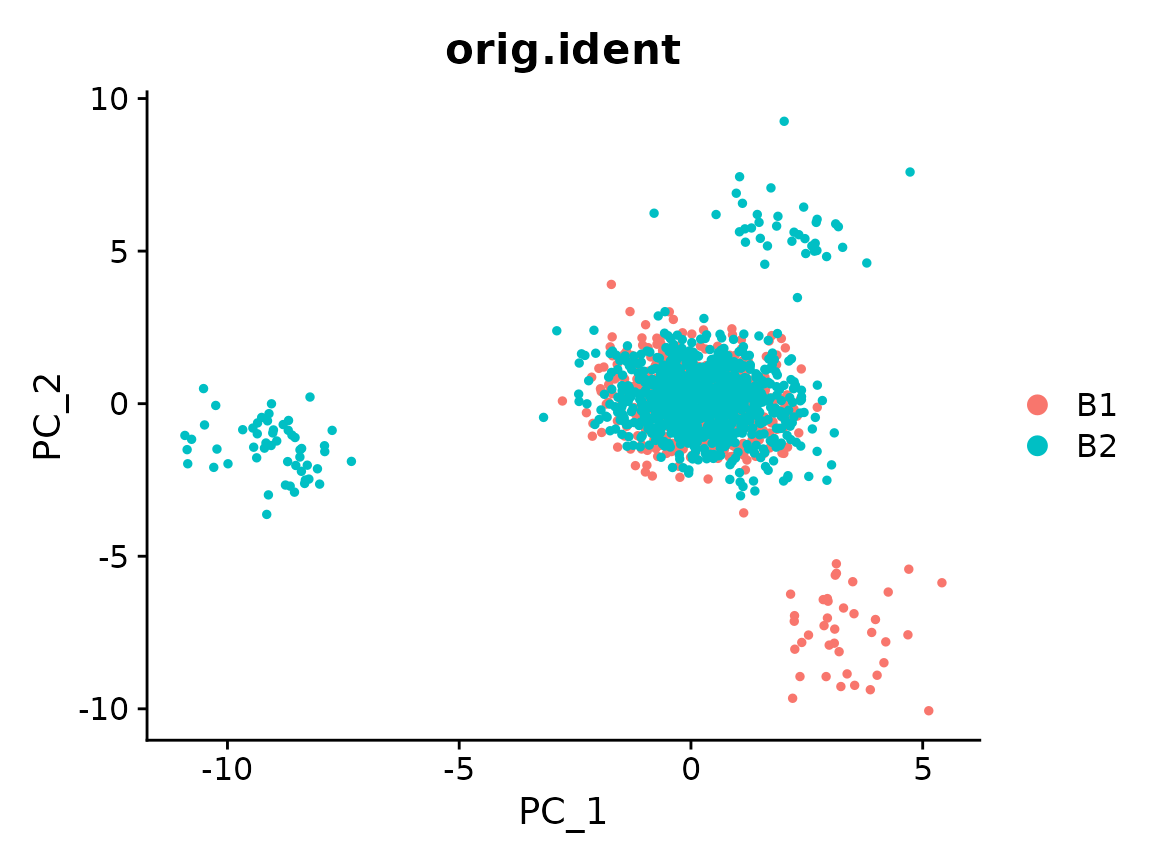
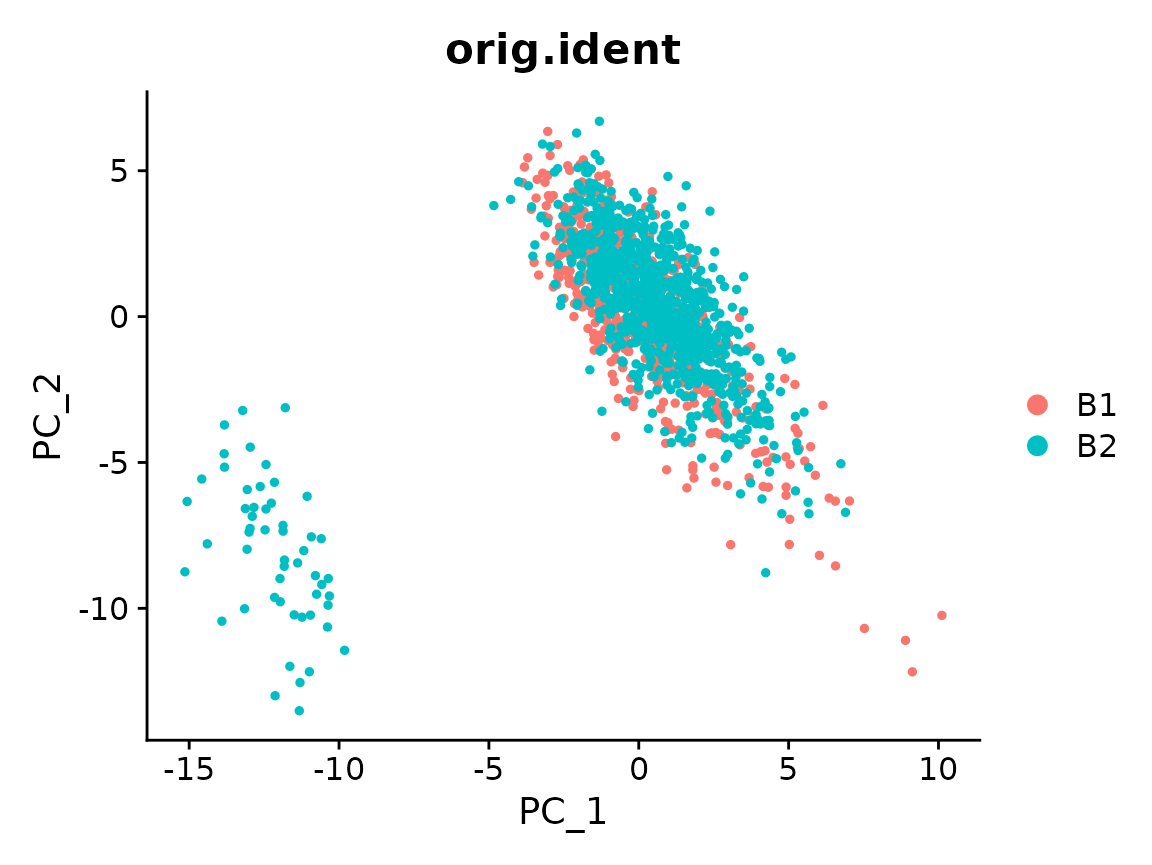
Deploying to gh-pages from @ MartinLoza/Canek@b64842f53f05c698bc25635f8ec1dfe3992fc601 🚀

diff --git a/articles/seurat.html b/articles/seurat.html
@@ -181,57 +181,52 @@
 </h2>
 <p>We pass the column containing the batch information.</p>
 <div class="sourceCode" id="cb9"><pre class="downlit sourceCode r">
-<code class="sourceCode R"><span><span class="va">x</span> <span class="op">&lt;-</span> <span class="fu"><a href="../reference/RunCanek.html">RunCanek</a></span><span class="op">(</span><span class="va">x</span>, <span class="st">"orig.ident"</span><span class="op">)</span></span>
-<span><span class="co">#&gt; Warning in (function (A, nv = 5, nu = nv, maxit = 1000, work = nv + 7, reorth =</span></span>
-<span><span class="co">#&gt; TRUE, : You're computing too large a percentage of total singular values, use a</span></span>
-<span><span class="co">#&gt; standard svd instead.</span></span></code></pre></div>
+<code class="sourceCode R"><span><span class="va">x</span> <span class="op">&lt;-</span> <span class="fu"><a href="../reference/RunCanek.html">RunCanek</a></span><span class="op">(</span><span class="va">x</span>, <span class="st">"orig.ident"</span><span class="op">)</span></span></code></pre></div>
 <p>The features selected during integration are assigned as variable
 features.</p>
 <div class="sourceCode" id="cb10"><pre class="downlit sourceCode r">
 <code class="sourceCode R"><span><span class="fu"><a href="https://rdrr.io/r/utils/head.html" class="external-link">head</a></span><span class="op">(</span><span class="fu"><a href="https://mojaveazure.github.io/seurat-object/reference/VariableFeatures.html" class="external-link">VariableFeatures</a></span><span class="op">(</span><span class="va">x</span>, assay<span class="op">=</span><span class="st">"Canek"</span><span class="op">)</span><span class="op">)</span></span>
-<span><span class="co">#&gt; [1] "Gene461" "Gene348" "Gene322" "Gene57"  "Gene61"  "Gene183"</span></span></code></pre></div>
+<span><span class="co">#&gt; [1] "Gene348" "Gene322" "Gene57"  "Gene461" "Gene61"  "Gene145"</span></span></code></pre></div>
 <p>We scale features and run PCA.</p>
 <div class="sourceCode" id="cb11"><pre class="downlit sourceCode r">
 <code class="sourceCode R"><span><span class="va">x</span> <span class="op">&lt;-</span> <span class="fu"><a href="https://satijalab.org/seurat/reference/ScaleData.html" class="external-link">ScaleData</a></span><span class="op">(</span><span class="va">x</span><span class="op">)</span></span>
 <span><span class="co">#&gt; Centering and scaling data matrix</span></span>
 <span><span class="va">x</span> <span class="op">&lt;-</span> <span class="fu"><a href="https://satijalab.org/seurat/reference/RunPCA.html" class="external-link">RunPCA</a></span><span class="op">(</span><span class="va">x</span><span class="op">)</span></span>
-<span><span class="co">#&gt; Warning in irlba(A = t(x = object), nv = npcs, ...): You're computing too large</span></span>
-<span><span class="co">#&gt; a percentage of total singular values, use a standard svd instead.</span></span>
 <span><span class="co">#&gt; PC_ 1 </span></span>
-<span><span class="co">#&gt; Positive:  Gene358, Gene229, Gene17, Gene4, Gene65, Gene484, Gene473, Gene74, Gene296, Gene285 </span></span>
-<span><span class="co">#&gt;     Gene213, Gene386, Gene376, Gene226, Gene94, Gene369, Gene274, Gene327, Gene366, Gene165 </span></span>
-<span><span class="co">#&gt;     Gene50, Gene130, Gene185, Gene78, Gene36, Gene401, Gene28, Gene281, Gene373, Gene145 </span></span>
-<span><span class="co">#&gt; Negative:  Gene461, Gene31, Gene322, Gene341, Gene297, Gene498, Gene472, Gene228, Gene9, Gene223 </span></span>
-<span><span class="co">#&gt;     Gene234, Gene174, Gene176, Gene178, Gene239, Gene303, Gene489, Gene160, Gene298, Gene220 </span></span>
-<span><span class="co">#&gt;     Gene57, Gene477, Gene162, Gene427, Gene61, Gene481, Gene354, Gene30, Gene22, Gene492 </span></span>
+<span><span class="co">#&gt; Positive:  Gene358, Gene150, Gene229, Gene488, Gene17, Gene484, Gene65, Gene169, Gene4, Gene392 </span></span>
+<span><span class="co">#&gt;     Gene60, Gene387, Gene374, Gene299, Gene274, Gene180, Gene386, Gene167, Gene388, Gene96 </span></span>
+<span><span class="co">#&gt;     Gene473, Gene454, Gene74, Gene338, Gene417, Gene285, Gene394, Gene94, Gene476, Gene205 </span></span>
+<span><span class="co">#&gt; Negative:  Gene322, Gene461, Gene31, Gene202, Gene211, Gene472, Gene9, Gene341, Gene210, Gene118 </span></span>
+<span><span class="co">#&gt;     Gene498, Gene297, Gene280, Gene122, Gene12, Gene325, Gene58, Gene2, Gene198, Gene111 </span></span>
+<span><span class="co">#&gt;     Gene377, Gene64, Gene393, Gene168, Gene173, Gene480, Gene197, Gene456, Gene223, Gene300 </span></span>
 <span><span class="co">#&gt; PC_ 2 </span></span>
-<span><span class="co">#&gt; Positive:  Gene311, Gene492, Gene165, Gene366, Gene389, Gene183, Gene136, Gene461, Gene127, Gene5 </span></span>
-<span><span class="co">#&gt;     Gene401, Gene296, Gene471, Gene362, Gene193, Gene185, Gene239, Gene178, Gene9, Gene427 </span></span>
-<span><span class="co">#&gt;     Gene370, Gene17, Gene416, Gene30, Gene57, Gene303, Gene354, Gene4, Gene229, Gene472 </span></span>
-<span><span class="co">#&gt; Negative:  Gene449, Gene274, Gene327, Gene373, Gene481, Gene285, Gene174, Gene223, Gene281, Gene61 </span></span>
-<span><span class="co">#&gt;     Gene382, Gene130, Gene489, Gene395, Gene36, Gene160, Gene50, Gene498, Gene255, Gene94 </span></span>
-<span><span class="co">#&gt;     Gene342, Gene228, Gene410, Gene220, Gene305, Gene234, Gene473, Gene145, Gene162, Gene341 </span></span>
+<span><span class="co">#&gt; Positive:  Gene164, Gene265, Gene366, Gene273, Gene17, Gene14, Gene4, Gene422, Gene237, Gene277 </span></span>
+<span><span class="co">#&gt;     Gene213, Gene78, Gene126, Gene165, Gene399, Gene299, Gene374, Gene488, Gene156, Gene21 </span></span>
+<span><span class="co">#&gt;     Gene85, Gene438, Gene286, Gene5, Gene147, Gene10, Gene319, Gene315, Gene40, Gene250 </span></span>
+<span><span class="co">#&gt; Negative:  Gene274, Gene391, Gene476, Gene60, Gene76, Gene333, Gene295, Gene491, Gene339, Gene157 </span></span>
+<span><span class="co">#&gt;     Gene88, Gene386, Gene490, Gene341, Gene31, Gene2, Gene228, Gene217, Gene223, Gene410 </span></span>
+<span><span class="co">#&gt;     Gene322, Gene69, Gene459, Gene297, Gene472, Gene287, Gene449, Gene327, Gene133, Gene461 </span></span>
 <span><span class="co">#&gt; PC_ 3 </span></span>
-<span><span class="co">#&gt; Positive:  Gene178, Gene290, Gene303, Gene255, Gene481, Gene489, Gene449, Gene239, Gene160, Gene366 </span></span>
-<span><span class="co">#&gt;     Gene136, Gene94, Gene285, Gene61, Gene461, Gene162, Gene416, Gene5, Gene213, Gene369 </span></span>
-<span><span class="co">#&gt;     Gene17, Gene4, Gene342, Gene24, Gene74, Gene229, Gene362, Gene226, Gene65, Gene473 </span></span>
-<span><span class="co">#&gt; Negative:  Gene183, Gene484, Gene472, Gene322, Gene471, Gene327, Gene401, Gene382, Gene373, Gene296 </span></span>
-<span><span class="co">#&gt;     Gene223, Gene193, Gene386, Gene274, Gene174, Gene185, Gene281, Gene427, Gene3, Gene130 </span></span>
-<span><span class="co">#&gt;     Gene341, Gene305, Gene220, Gene477, Gene498, Gene31, Gene207, Gene36, Gene410, Gene50 </span></span>
+<span><span class="co">#&gt; Positive:  Gene178, Gene102, Gene290, Gene490, Gene356, Gene449, Gene481, Gene303, Gene461, Gene394 </span></span>
+<span><span class="co">#&gt;     Gene489, Gene262, Gene133, Gene67, Gene255, Gene345, Gene459, Gene307, Gene180, Gene446 </span></span>
+<span><span class="co">#&gt;     Gene377, Gene142, Gene397, Gene189, Gene113, Gene239, Gene33, Gene73, Gene61, Gene118 </span></span>
+<span><span class="co">#&gt; Negative:  Gene183, Gene391, Gene484, Gene179, Gene8, Gene1, Gene224, Gene401, Gene296, Gene471 </span></span>
+<span><span class="co">#&gt;     Gene112, Gene312, Gene411, Gene476, Gene373, Gene327, Gene361, Gene382, Gene427, Gene107 </span></span>
+<span><span class="co">#&gt;     Gene400, Gene437, Gene188, Gene472, Gene322, Gene193, Gene15, Gene87, Gene217, Gene132 </span></span>
 <span><span class="co">#&gt; PC_ 4 </span></span>
-<span><span class="co">#&gt; Positive:  Gene427, Gene477, Gene57, Gene281, Gene322, Gene50, Gene474, Gene342, Gene22, Gene352 </span></span>
-<span><span class="co">#&gt;     Gene191, Gene285, Gene30, Gene160, Gene432, Gene24, Gene28, Gene183, Gene298, Gene373 </span></span>
-<span><span class="co">#&gt;     Gene3, Gene255, Gene220, Gene213, Gene78, Gene326, Gene416, Gene305, Gene369, Gene382 </span></span>
-<span><span class="co">#&gt; Negative:  Gene386, Gene178, Gene274, Gene461, Gene228, Gene94, Gene410, Gene297, Gene484, Gene395 </span></span>
-<span><span class="co">#&gt;     Gene145, Gene341, Gene31, Gene185, Gene472, Gene389, Gene376, Gene207, Gene362, Gene481 </span></span>
-<span><span class="co">#&gt;     Gene492, Gene471, Gene468, Gene303, Gene323, Gene449, Gene498, Gene172, Gene130, Gene290 </span></span>
+<span><span class="co">#&gt; Positive:  Gene461, Gene459, Gene492, Gene311, Gene178, Gene113, Gene386, Gene118, Gene389, Gene165 </span></span>
+<span><span class="co">#&gt;     Gene132, Gene73, Gene133, Gene377, Gene183, Gene307, Gene198, Gene245, Gene164, Gene136 </span></span>
+<span><span class="co">#&gt;     Gene335, Gene400, Gene366, Gene185, Gene411, Gene296, Gene484, Gene401, Gene471, Gene177 </span></span>
+<span><span class="co">#&gt; Negative:  Gene449, Gene285, Gene60, Gene107, Gene373, Gene327, Gene189, Gene102, Gene402, Gene360 </span></span>
+<span><span class="co">#&gt;     Gene274, Gene101, Gene345, Gene481, Gene489, Gene89, Gene174, Gene142, Gene160, Gene224 </span></span>
+<span><span class="co">#&gt;     Gene281, Gene387, Gene342, Gene61, Gene67, Gene446, Gene223, Gene50, Gene49, Gene382 </span></span>
 <span><span class="co">#&gt; PC_ 5 </span></span>
-<span><span class="co">#&gt; Positive:  Gene473, Gene228, Gene94, Gene386, Gene495, Gene78, Gene395, Gene191, Gene223, Gene432 </span></span>
-<span><span class="co">#&gt;     Gene328, Gene30, Gene61, Gene298, Gene342, Gene292, Gene172, Gene352, Gene416, Gene401 </span></span>
-<span><span class="co">#&gt;     Gene50, Gene24, Gene127, Gene162, Gene474, Gene472, Gene9, Gene220, Gene296, Gene326 </span></span>
-<span><span class="co">#&gt; Negative:  Gene427, Gene477, Gene281, Gene322, Gene178, Gene358, Gene449, Gene145, Gene183, Gene410 </span></span>
-<span><span class="co">#&gt;     Gene481, Gene290, Gene57, Gene376, Gene354, Gene489, Gene484, Gene461, Gene311, Gene255 </span></span>
-<span><span class="co">#&gt;     Gene65, Gene323, Gene285, Gene207, Gene31, Gene389, Gene303, Gene234, Gene468, Gene136</span></span></code></pre></div>
+<span><span class="co">#&gt; Positive:  Gene427, Gene112, Gene33, Gene322, Gene281, Gene198, Gene477, Gene15, Gene358, Gene8 </span></span>
+<span><span class="co">#&gt;     Gene108, Gene485, Gene183, Gene57, Gene394, Gene449, Gene490, Gene111, Gene481, Gene102 </span></span>
+<span><span class="co">#&gt;     Gene180, Gene250, Gene290, Gene489, Gene406, Gene434, Gene411, Gene178, Gene455, Gene140 </span></span>
+<span><span class="co">#&gt; Negative:  Gene386, Gene306, Gene228, Gene94, Gene190, Gene20, Gene157, Gene224, Gene60, Gene473 </span></span>
+<span><span class="co">#&gt;     Gene333, Gene356, Gene383, Gene274, Gene338, Gene302, Gene395, Gene156, Gene175, Gene223 </span></span>
+<span><span class="co">#&gt;     Gene270, Gene137, Gene321, Gene19, Gene456, Gene45, Gene78, Gene79, Gene181, Gene472</span></span></code></pre></div>
 <div class="section level3">
 <h3 id="pca-plot-after-correction">PCA plot after correction<a class="anchor" aria-label="anchor" href="#pca-plot-after-correction"></a>
 </h3>

diff --git a/articles/SingleCellExperiment.html b/articles/SingleCellExperiment.html
@@ -276,63 +276,63 @@ preserving the other cell types.</p>
 <span><span class="co">#&gt; [8] base     </span></span>
 <span><span class="co">#&gt; </span></span>
 <span><span class="co">#&gt; other attached packages:</span></span>
-<span><span class="co">#&gt;  [1] patchwork_1.1.2             scran_1.24.1               </span></span>
-<span><span class="co">#&gt;  [3] batchelor_1.12.3            scater_1.24.0              </span></span>
-<span><span class="co">#&gt;  [5] ggplot2_3.4.0               scuttle_1.6.3              </span></span>
-<span><span class="co">#&gt;  [7] SingleCellExperiment_1.18.1 SummarizedExperiment_1.26.1</span></span>
-<span><span class="co">#&gt;  [9] Biobase_2.56.0              GenomicRanges_1.48.0       </span></span>
-<span><span class="co">#&gt; [11] GenomeInfoDb_1.32.4         IRanges_2.30.1             </span></span>
-<span><span class="co">#&gt; [13] S4Vectors_0.34.0            BiocGenerics_0.42.0        </span></span>
-<span><span class="co">#&gt; [15] MatrixGenerics_1.8.1        matrixStats_0.63.0         </span></span>
+<span><span class="co">#&gt;  [1] patchwork_1.1.2             scran_1.26.2               </span></span>
+<span><span class="co">#&gt;  [3] batchelor_1.14.1            scater_1.26.1              </span></span>
+<span><span class="co">#&gt;  [5] ggplot2_3.4.1               scuttle_1.8.4              </span></span>
+<span><span class="co">#&gt;  [7] SingleCellExperiment_1.20.0 SummarizedExperiment_1.28.0</span></span>
+<span><span class="co">#&gt;  [9] Biobase_2.58.0              GenomicRanges_1.50.2       </span></span>
+<span><span class="co">#&gt; [11] GenomeInfoDb_1.34.9         IRanges_2.32.0             </span></span>
+<span><span class="co">#&gt; [13] S4Vectors_0.36.1            BiocGenerics_0.44.0        </span></span>
+<span><span class="co">#&gt; [15] MatrixGenerics_1.10.0       matrixStats_0.63.0         </span></span>
 <span><span class="co">#&gt; [17] Canek_0.2.2                </span></span>
 <span><span class="co">#&gt; </span></span>
 <span><span class="co">#&gt; loaded via a namespace (and not attached):</span></span>
-<span><span class="co">#&gt;   [1] ggbeeswarm_0.7.1          colorspace_2.0-3         </span></span>
+<span><span class="co">#&gt;   [1] ggbeeswarm_0.7.1          colorspace_2.1-0         </span></span>
 <span><span class="co">#&gt;   [3] class_7.3-20              modeltools_0.2-23        </span></span>
 <span><span class="co">#&gt;   [5] mclust_6.0.0              rprojroot_2.0.3          </span></span>
-<span><span class="co">#&gt;   [7] bluster_1.6.0             XVector_0.36.0           </span></span>
-<span><span class="co">#&gt;   [9] numbers_0.8-5             BiocNeighbors_1.14.0     </span></span>
-<span><span class="co">#&gt;  [11] fs_1.5.2                  farver_2.1.1             </span></span>
-<span><span class="co">#&gt;  [13] ggrepel_0.9.2             flexmix_2.3-18           </span></span>
-<span><span class="co">#&gt;  [15] fansi_1.0.3               codetools_0.2-18         </span></span>
-<span><span class="co">#&gt;  [17] sparseMatrixStats_1.8.0   cachem_1.0.6             </span></span>
-<span><span class="co">#&gt;  [19] robustbase_0.95-0         knitr_1.41               </span></span>
-<span><span class="co">#&gt;  [21] jsonlite_1.8.4            ResidualMatrix_1.6.1     </span></span>
-<span><span class="co">#&gt;  [23] cluster_2.1.4             kernlab_0.9-31           </span></span>
+<span><span class="co">#&gt;   [7] bluster_1.8.0             XVector_0.38.0           </span></span>
+<span><span class="co">#&gt;   [9] numbers_0.8-5             BiocNeighbors_1.16.0     </span></span>
+<span><span class="co">#&gt;  [11] fs_1.6.1                  farver_2.1.1             </span></span>
+<span><span class="co">#&gt;  [13] ggrepel_0.9.3             flexmix_2.3-18           </span></span>
+<span><span class="co">#&gt;  [15] fansi_1.0.4               codetools_0.2-18         </span></span>
+<span><span class="co">#&gt;  [17] sparseMatrixStats_1.10.0  cachem_1.0.6             </span></span>
+<span><span class="co">#&gt;  [19] robustbase_0.95-0         knitr_1.42               </span></span>
+<span><span class="co">#&gt;  [21] jsonlite_1.8.4            ResidualMatrix_1.8.0     </span></span>
+<span><span class="co">#&gt;  [23] cluster_2.1.4             kernlab_0.9-32           </span></span>
 <span><span class="co">#&gt;  [25] uwot_0.1.14               compiler_4.2.2           </span></span>
 <span><span class="co">#&gt;  [27] dqrng_0.3.0               Matrix_1.5-1             </span></span>
-<span><span class="co">#&gt;  [29] fastmap_1.1.0             limma_3.52.4             </span></span>
-<span><span class="co">#&gt;  [31] cli_3.5.0                 BiocSingular_1.12.0      </span></span>
+<span><span class="co">#&gt;  [29] fastmap_1.1.0             limma_3.54.1             </span></span>
+<span><span class="co">#&gt;  [31] cli_3.6.0                 BiocSingular_1.14.0      </span></span>
 <span><span class="co">#&gt;  [33] htmltools_0.5.4           tools_4.2.2              </span></span>
-<span><span class="co">#&gt;  [35] rsvd_1.0.5                igraph_1.3.5             </span></span>
+<span><span class="co">#&gt;  [35] rsvd_1.0.5                igraph_1.4.0             </span></span>
 <span><span class="co">#&gt;  [37] gtable_0.3.1              glue_1.6.2               </span></span>
-<span><span class="co">#&gt;  [39] GenomeInfoDbData_1.2.8    dplyr_1.0.10             </span></span>
-<span><span class="co">#&gt;  [41] Rcpp_1.0.9                jquerylib_0.1.4          </span></span>
-<span><span class="co">#&gt;  [43] pkgdown_2.0.7             vctrs_0.5.1              </span></span>
-<span><span class="co">#&gt;  [45] fpc_2.2-9                 DelayedMatrixStats_1.18.2</span></span>
-<span><span class="co">#&gt;  [47] xfun_0.36                 stringr_1.5.0            </span></span>
-<span><span class="co">#&gt;  [49] beachmat_2.12.0           lifecycle_1.0.3          </span></span>
-<span><span class="co">#&gt;  [51] irlba_2.3.5.1             statmod_1.4.37           </span></span>
-<span><span class="co">#&gt;  [53] edgeR_3.38.4              DEoptimR_1.0-11          </span></span>
-<span><span class="co">#&gt;  [55] zlibbioc_1.42.0           MASS_7.3-58.1            </span></span>
-<span><span class="co">#&gt;  [57] scales_1.2.1              ragg_1.2.4               </span></span>
-<span><span class="co">#&gt;  [59] parallel_4.2.2            yaml_2.3.6               </span></span>
+<span><span class="co">#&gt;  [39] GenomeInfoDbData_1.2.9    dplyr_1.1.0              </span></span>
+<span><span class="co">#&gt;  [41] Rcpp_1.0.10               jquerylib_0.1.4          </span></span>
+<span><span class="co">#&gt;  [43] pkgdown_2.0.7             vctrs_0.5.2              </span></span>
+<span><span class="co">#&gt;  [45] fpc_2.2-10                DelayedMatrixStats_1.20.0</span></span>
+<span><span class="co">#&gt;  [47] xfun_0.37                 stringr_1.5.0            </span></span>
+<span><span class="co">#&gt;  [49] beachmat_2.14.0           lifecycle_1.0.3          </span></span>
+<span><span class="co">#&gt;  [51] irlba_2.3.5.1             statmod_1.5.0            </span></span>
+<span><span class="co">#&gt;  [53] edgeR_3.40.2              DEoptimR_1.0-11          </span></span>
+<span><span class="co">#&gt;  [55] zlibbioc_1.44.0           MASS_7.3-58.1            </span></span>
+<span><span class="co">#&gt;  [57] scales_1.2.1              ragg_1.2.5               </span></span>
+<span><span class="co">#&gt;  [59] parallel_4.2.2            yaml_2.3.7               </span></span>
 <span><span class="co">#&gt;  [61] memoise_2.0.1             gridExtra_2.3            </span></span>
-<span><span class="co">#&gt;  [63] sass_0.4.4                stringi_1.7.8            </span></span>
+<span><span class="co">#&gt;  [63] sass_0.4.5                stringi_1.7.12           </span></span>
 <span><span class="co">#&gt;  [65] highr_0.10                desc_1.4.2               </span></span>
-<span><span class="co">#&gt;  [67] ScaledMatrix_1.4.1        BiocParallel_1.30.4      </span></span>
+<span><span class="co">#&gt;  [67] ScaledMatrix_1.6.0        BiocParallel_1.32.5      </span></span>
 <span><span class="co">#&gt;  [69] rlang_1.0.6               pkgconfig_2.0.3          </span></span>
 <span><span class="co">#&gt;  [71] systemfonts_1.0.4         prabclus_2.3-2           </span></span>
-<span><span class="co">#&gt;  [73] bitops_1.0-7              evaluate_0.19            </span></span>
-<span><span class="co">#&gt;  [75] lattice_0.20-45           purrr_1.0.0              </span></span>
+<span><span class="co">#&gt;  [73] bitops_1.0-7              evaluate_0.20            </span></span>
+<span><span class="co">#&gt;  [75] lattice_0.20-45           purrr_1.0.1              </span></span>
 <span><span class="co">#&gt;  [77] labeling_0.4.2            cowplot_1.1.1            </span></span>
 <span><span class="co">#&gt;  [79] tidyselect_1.2.0          magrittr_2.0.3           </span></span>
 <span><span class="co">#&gt;  [81] R6_2.5.1                  generics_0.1.3           </span></span>
-<span><span class="co">#&gt;  [83] metapod_1.4.0             DelayedArray_0.22.0      </span></span>
+<span><span class="co">#&gt;  [83] metapod_1.6.0             DelayedArray_0.24.0      </span></span>
 <span><span class="co">#&gt;  [85] pillar_1.8.1              withr_2.5.0              </span></span>
-<span><span class="co">#&gt;  [87] RCurl_1.98-1.9            nnet_7.3-18              </span></span>
-<span><span class="co">#&gt;  [89] tibble_3.1.8              utf8_1.2.2               </span></span>
-<span><span class="co">#&gt;  [91] rmarkdown_2.19            viridis_0.6.2            </span></span>
+<span><span class="co">#&gt;  [87] RCurl_1.98-1.10           nnet_7.3-18              </span></span>
+<span><span class="co">#&gt;  [89] tibble_3.1.8              utf8_1.2.3               </span></span>
+<span><span class="co">#&gt;  [91] rmarkdown_2.20            viridis_0.6.2            </span></span>
 <span><span class="co">#&gt;  [93] locfit_1.5-9.7            grid_4.2.2               </span></span>
 <span><span class="co">#&gt;  [95] FNN_1.1.3.1               digest_0.6.31            </span></span>
 <span><span class="co">#&gt;  [97] diptest_0.76-0            textshaping_0.3.6        </span></span>

diff --git a/articles/Best_practices_thymus.html b/articles/Best_practices_thymus.html
@@ -447,56 +447,56 @@ minimize the batch difference in <em>immature T cells</em>.</p>
 <span><span class="co">#&gt; [1] stats     graphics  grDevices utils     datasets  methods   base     </span></span>
 <span><span class="co">#&gt; </span></span>
 <span><span class="co">#&gt; other attached packages:</span></span>
-<span><span class="co">#&gt; [1] here_1.0.1         patchwork_1.1.2    ggplot2_3.4.0      SeuratObject_4.1.3</span></span>
+<span><span class="co">#&gt; [1] here_1.0.1         patchwork_1.1.2    ggplot2_3.4.1      SeuratObject_4.1.3</span></span>
 <span><span class="co">#&gt; [5] Seurat_4.3.0       Canek_0.2.2       </span></span>
 <span><span class="co">#&gt; </span></span>
 <span><span class="co">#&gt; loaded via a namespace (and not attached):</span></span>
-<span><span class="co">#&gt;   [1] systemfonts_1.0.4      plyr_1.8.8             igraph_1.3.5          </span></span>
-<span><span class="co">#&gt;   [4] lazyeval_0.2.2         sp_1.5-1               splines_4.2.2         </span></span>
-<span><span class="co">#&gt;   [7] BiocParallel_1.30.4    listenv_0.9.0          scattermore_0.8       </span></span>
-<span><span class="co">#&gt;  [10] digest_0.6.31          htmltools_0.5.4        fansi_1.0.3           </span></span>
+<span><span class="co">#&gt;   [1] systemfonts_1.0.4      plyr_1.8.8             igraph_1.4.0          </span></span>
+<span><span class="co">#&gt;   [4] lazyeval_0.2.2         sp_1.6-0               splines_4.2.2         </span></span>
+<span><span class="co">#&gt;   [7] BiocParallel_1.32.5    listenv_0.9.0          scattermore_0.8       </span></span>
+<span><span class="co">#&gt;  [10] digest_0.6.31          htmltools_0.5.4        fansi_1.0.4           </span></span>
 <span><span class="co">#&gt;  [13] magrittr_2.0.3         memoise_2.0.1          tensor_1.5            </span></span>
 <span><span class="co">#&gt;  [16] cluster_2.1.4          ROCR_1.0-11            globals_0.16.2        </span></span>
 <span><span class="co">#&gt;  [19] matrixStats_0.63.0     pkgdown_2.0.7          spatstat.sparse_3.0-0 </span></span>
-<span><span class="co">#&gt;  [22] colorspace_2.0-3       ggrepel_0.9.2          textshaping_0.3.6     </span></span>
-<span><span class="co">#&gt;  [25] xfun_0.36              dplyr_1.0.10           jsonlite_1.8.4        </span></span>
-<span><span class="co">#&gt;  [28] progressr_0.12.0       spatstat.data_3.0-0    survival_3.4-0        </span></span>
+<span><span class="co">#&gt;  [22] colorspace_2.1-0       ggrepel_0.9.3          textshaping_0.3.6     </span></span>
+<span><span class="co">#&gt;  [25] xfun_0.37              dplyr_1.1.0            jsonlite_1.8.4        </span></span>
+<span><span class="co">#&gt;  [28] progressr_0.13.0       spatstat.data_3.0-0    survival_3.4-0        </span></span>
 <span><span class="co">#&gt;  [31] zoo_1.8-11             glue_1.6.2             polyclip_1.10-4       </span></span>
-<span><span class="co">#&gt;  [34] gtable_0.3.1           leiden_0.4.3           kernlab_0.9-31        </span></span>
-<span><span class="co">#&gt;  [37] future.apply_1.10.0    prabclus_2.3-2         BiocGenerics_0.42.0   </span></span>
+<span><span class="co">#&gt;  [34] gtable_0.3.1           leiden_0.4.3           kernlab_0.9-32        </span></span>
+<span><span class="co">#&gt;  [37] future.apply_1.10.0    prabclus_2.3-2         BiocGenerics_0.44.0   </span></span>
 <span><span class="co">#&gt;  [40] DEoptimR_1.0-11        abind_1.4-5            scales_1.2.1          </span></span>
-<span><span class="co">#&gt;  [43] spatstat.random_3.0-1  miniUI_0.1.1.1         Rcpp_1.0.9            </span></span>
-<span><span class="co">#&gt;  [46] viridisLite_0.4.1      xtable_1.8-4           reticulate_1.26       </span></span>
-<span><span class="co">#&gt;  [49] mclust_6.0.0           stats4_4.2.2           htmlwidgets_1.6.0     </span></span>
+<span><span class="co">#&gt;  [43] spatstat.random_3.1-3  miniUI_0.1.1.1         Rcpp_1.0.10           </span></span>
+<span><span class="co">#&gt;  [46] viridisLite_0.4.1      xtable_1.8-4           reticulate_1.28       </span></span>
+<span><span class="co">#&gt;  [49] mclust_6.0.0           stats4_4.2.2           htmlwidgets_1.6.1     </span></span>
 <span><span class="co">#&gt;  [52] httr_1.4.4             numbers_0.8-5          FNN_1.1.3.1           </span></span>
-<span><span class="co">#&gt;  [55] RColorBrewer_1.1-3     fpc_2.2-9              modeltools_0.2-23     </span></span>
+<span><span class="co">#&gt;  [55] RColorBrewer_1.1-3     fpc_2.2-10             modeltools_0.2-23     </span></span>
 <span><span class="co">#&gt;  [58] ellipsis_0.3.2         ica_1.0-3              farver_2.1.1          </span></span>
 <span><span class="co">#&gt;  [61] pkgconfig_2.0.3        flexmix_2.3-18         uwot_0.1.14           </span></span>
-<span><span class="co">#&gt;  [64] nnet_7.3-18            sass_0.4.4             deldir_1.0-6          </span></span>
-<span><span class="co">#&gt;  [67] utf8_1.2.2             labeling_0.4.2         tidyselect_1.2.0      </span></span>
+<span><span class="co">#&gt;  [64] nnet_7.3-18            sass_0.4.5             deldir_1.0-6          </span></span>
+<span><span class="co">#&gt;  [67] utf8_1.2.3             labeling_0.4.2         tidyselect_1.2.0      </span></span>
 <span><span class="co">#&gt;  [70] rlang_1.0.6            reshape2_1.4.4         later_1.3.0           </span></span>
 <span><span class="co">#&gt;  [73] munsell_0.5.0          tools_4.2.2            cachem_1.0.6          </span></span>
-<span><span class="co">#&gt;  [76] cli_3.5.0              generics_0.1.3         ggridges_0.5.4        </span></span>
-<span><span class="co">#&gt;  [79] evaluate_0.19          stringr_1.5.0          fastmap_1.1.0         </span></span>
-<span><span class="co">#&gt;  [82] goftest_1.2-3          yaml_2.3.6             ragg_1.2.4            </span></span>
-<span><span class="co">#&gt;  [85] knitr_1.41             fs_1.5.2               fitdistrplus_1.1-8    </span></span>
-<span><span class="co">#&gt;  [88] robustbase_0.95-0      purrr_1.0.0            RANN_2.6.1            </span></span>
-<span><span class="co">#&gt;  [91] nlme_3.1-160           pbapply_1.6-0          future_1.30.0         </span></span>
+<span><span class="co">#&gt;  [76] cli_3.6.0              generics_0.1.3         ggridges_0.5.4        </span></span>
+<span><span class="co">#&gt;  [79] evaluate_0.20          stringr_1.5.0          fastmap_1.1.0         </span></span>
+<span><span class="co">#&gt;  [82] goftest_1.2-3          yaml_2.3.7             ragg_1.2.5            </span></span>
+<span><span class="co">#&gt;  [85] knitr_1.42             fs_1.6.1               fitdistrplus_1.1-8    </span></span>
+<span><span class="co">#&gt;  [88] robustbase_0.95-0      purrr_1.0.1            RANN_2.6.1            </span></span>
+<span><span class="co">#&gt;  [91] nlme_3.1-160           pbapply_1.7-0          future_1.31.0         </span></span>
 <span><span class="co">#&gt;  [94] mime_0.12              compiler_4.2.2         plotly_4.10.1         </span></span>
 <span><span class="co">#&gt;  [97] png_0.1-8              spatstat.utils_3.0-1   tibble_3.1.8          </span></span>
-<span><span class="co">#&gt; [100] bslib_0.4.2            stringi_1.7.8          highr_0.10            </span></span>
-<span><span class="co">#&gt; [103] desc_1.4.2             lattice_0.20-45        bluster_1.6.0         </span></span>
-<span><span class="co">#&gt; [106] Matrix_1.5-1           vctrs_0.5.1            pillar_1.8.1          </span></span>
-<span><span class="co">#&gt; [109] lifecycle_1.0.3        spatstat.geom_3.0-3    lmtest_0.9-40         </span></span>
-<span><span class="co">#&gt; [112] jquerylib_0.1.4        RcppAnnoy_0.0.20       BiocNeighbors_1.14.0  </span></span>
+<span><span class="co">#&gt; [100] bslib_0.4.2            stringi_1.7.12         highr_0.10            </span></span>
+<span><span class="co">#&gt; [103] desc_1.4.2             lattice_0.20-45        bluster_1.8.0         </span></span>
+<span><span class="co">#&gt; [106] Matrix_1.5-1           vctrs_0.5.2            pillar_1.8.1          </span></span>
+<span><span class="co">#&gt; [109] lifecycle_1.0.3        spatstat.geom_3.0-6    lmtest_0.9-40         </span></span>
+<span><span class="co">#&gt; [112] jquerylib_0.1.4        RcppAnnoy_0.0.20       BiocNeighbors_1.16.0  </span></span>
 <span><span class="co">#&gt; [115] data.table_1.14.6      cowplot_1.1.1          irlba_2.3.5.1         </span></span>
-<span><span class="co">#&gt; [118] httpuv_1.6.7           R6_2.5.1               promises_1.2.0.1      </span></span>
-<span><span class="co">#&gt; [121] KernSmooth_2.23-20     gridExtra_2.3          parallelly_1.33.0     </span></span>
+<span><span class="co">#&gt; [118] httpuv_1.6.8           R6_2.5.1               promises_1.2.0.1      </span></span>
+<span><span class="co">#&gt; [121] KernSmooth_2.23-20     gridExtra_2.3          parallelly_1.34.0     </span></span>
 <span><span class="co">#&gt; [124] codetools_0.2-18       MASS_7.3-58.1          rprojroot_2.0.3       </span></span>
-<span><span class="co">#&gt; [127] withr_2.5.0            sctransform_0.3.5      S4Vectors_0.34.0      </span></span>
+<span><span class="co">#&gt; [127] withr_2.5.0            sctransform_0.3.5      S4Vectors_0.36.1      </span></span>
 <span><span class="co">#&gt; [130] diptest_0.76-0         parallel_4.2.2         grid_4.2.2            </span></span>
-<span><span class="co">#&gt; [133] tidyr_1.2.1            class_7.3-20           rmarkdown_2.19        </span></span>
-<span><span class="co">#&gt; [136] Rtsne_0.16             spatstat.explore_3.0-5 shiny_1.7.4</span></span></code></pre></div>
+<span><span class="co">#&gt; [133] tidyr_1.3.0            class_7.3-20           rmarkdown_2.20        </span></span>
+<span><span class="co">#&gt; [136] Rtsne_0.16             spatstat.explore_3.0-6 shiny_1.7.4</span></span></code></pre></div>
 </div>
   </div>
 

diff --git a/articles/toy_example.html b/articles/toy_example.html
@@ -210,28 +210,28 @@ After correction, the cells group by their corresponding cell type.</p>
 <span><span class="co">#&gt; [1] Canek_0.2.2</span></span>
 <span><span class="co">#&gt; </span></span>
 <span><span class="co">#&gt; loaded via a namespace (and not attached):</span></span>
-<span><span class="co">#&gt;  [1] modeltools_0.2-23    xfun_0.36            bslib_0.4.2         </span></span>
-<span><span class="co">#&gt;  [4] kernlab_0.9-31       purrr_1.0.0          lattice_0.20-45     </span></span>
-<span><span class="co">#&gt;  [7] vctrs_0.5.1          htmltools_0.5.4      stats4_4.2.2        </span></span>
-<span><span class="co">#&gt; [10] yaml_2.3.6           rlang_1.0.6          pkgdown_2.0.7       </span></span>
+<span><span class="co">#&gt;  [1] modeltools_0.2-23    xfun_0.37            bslib_0.4.2         </span></span>
+<span><span class="co">#&gt;  [4] kernlab_0.9-32       purrr_1.0.1          lattice_0.20-45     </span></span>
+<span><span class="co">#&gt;  [7] vctrs_0.5.2          htmltools_0.5.4      stats4_4.2.2        </span></span>
+<span><span class="co">#&gt; [10] yaml_2.3.7           rlang_1.0.6          pkgdown_2.0.7       </span></span>
 <span><span class="co">#&gt; [13] jquerylib_0.1.4      glue_1.6.2           prabclus_2.3-2      </span></span>
-<span><span class="co">#&gt; [16] BiocParallel_1.30.4  BiocGenerics_0.42.0  fpc_2.2-9           </span></span>
+<span><span class="co">#&gt; [16] BiocParallel_1.32.5  BiocGenerics_0.44.0  fpc_2.2-10          </span></span>
 <span><span class="co">#&gt; [19] matrixStats_0.63.0   lifecycle_1.0.3      robustbase_0.95-0   </span></span>
-<span><span class="co">#&gt; [22] stringr_1.5.0        ragg_1.2.4           codetools_0.2-18    </span></span>
-<span><span class="co">#&gt; [25] memoise_2.0.1        evaluate_0.19        knitr_1.41          </span></span>
+<span><span class="co">#&gt; [22] stringr_1.5.0        ragg_1.2.5           codetools_0.2-18    </span></span>
+<span><span class="co">#&gt; [25] memoise_2.0.1        evaluate_0.20        knitr_1.42          </span></span>
 <span><span class="co">#&gt; [28] fastmap_1.1.0        irlba_2.3.5.1        flexmix_2.3-18      </span></span>
 <span><span class="co">#&gt; [31] parallel_4.2.2       numbers_0.8-5        class_7.3-20        </span></span>
-<span><span class="co">#&gt; [34] highr_0.10           DEoptimR_1.0-11      BiocNeighbors_1.14.0</span></span>
-<span><span class="co">#&gt; [37] Rcpp_1.0.9           diptest_0.76-0       cachem_1.0.6        </span></span>
-<span><span class="co">#&gt; [40] desc_1.4.2           S4Vectors_0.34.0     jsonlite_1.8.4      </span></span>
-<span><span class="co">#&gt; [43] FNN_1.1.3.1          systemfonts_1.0.4    fs_1.5.2            </span></span>
-<span><span class="co">#&gt; [46] textshaping_0.3.6    digest_0.6.31        stringi_1.7.8       </span></span>
-<span><span class="co">#&gt; [49] bluster_1.6.0        grid_4.2.2           rprojroot_2.0.3     </span></span>
-<span><span class="co">#&gt; [52] cli_3.5.0            tools_4.2.2          magrittr_2.0.3      </span></span>
-<span><span class="co">#&gt; [55] sass_0.4.4           cluster_2.1.4        pkgconfig_2.0.3     </span></span>
-<span><span class="co">#&gt; [58] MASS_7.3-58.1        Matrix_1.5-1         rmarkdown_2.19      </span></span>
+<span><span class="co">#&gt; [34] highr_0.10           DEoptimR_1.0-11      BiocNeighbors_1.16.0</span></span>
+<span><span class="co">#&gt; [37] Rcpp_1.0.10          diptest_0.76-0       cachem_1.0.6        </span></span>
+<span><span class="co">#&gt; [40] desc_1.4.2           S4Vectors_0.36.1     jsonlite_1.8.4      </span></span>
+<span><span class="co">#&gt; [43] FNN_1.1.3.1          systemfonts_1.0.4    fs_1.6.1            </span></span>
+<span><span class="co">#&gt; [46] textshaping_0.3.6    digest_0.6.31        stringi_1.7.12      </span></span>
+<span><span class="co">#&gt; [49] bluster_1.8.0        grid_4.2.2           rprojroot_2.0.3     </span></span>
+<span><span class="co">#&gt; [52] cli_3.6.0            tools_4.2.2          magrittr_2.0.3      </span></span>
+<span><span class="co">#&gt; [55] sass_0.4.5           cluster_2.1.4        pkgconfig_2.0.3     </span></span>
+<span><span class="co">#&gt; [58] MASS_7.3-58.1        Matrix_1.5-1         rmarkdown_2.20      </span></span>
 <span><span class="co">#&gt; [61] R6_2.5.1             mclust_6.0.0         nnet_7.3-18         </span></span>
-<span><span class="co">#&gt; [64] igraph_1.3.5         compiler_4.2.2</span></span></code></pre></div>
+<span><span class="co">#&gt; [64] igraph_1.4.0         compiler_4.2.2</span></span></code></pre></div>
 </div>
   </div>
 
